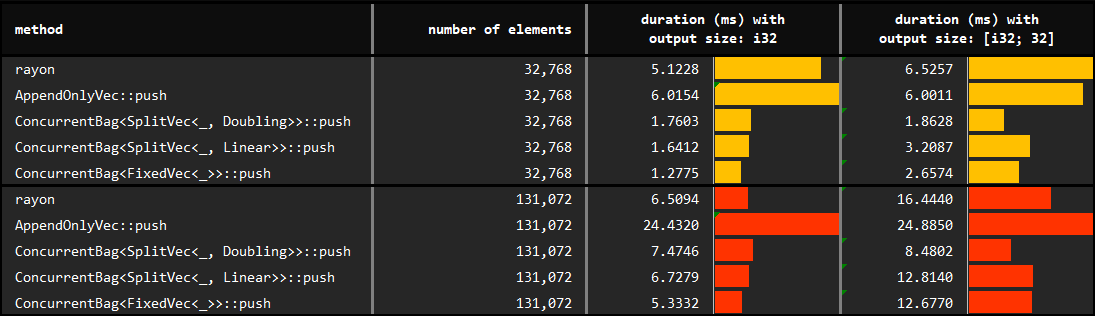
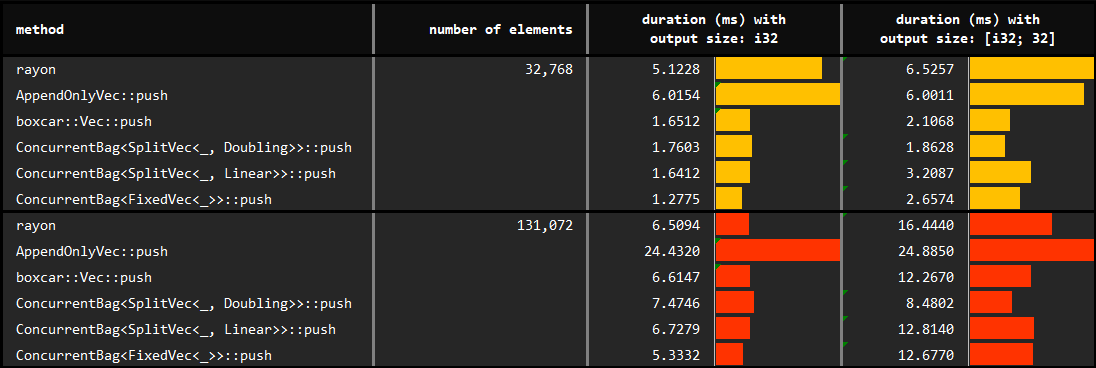
upgraded pinned-vec and pinned-concurrent-col versions
* Upgraded pinned-vec and pinned-concurrent-col versions.
* boxcar is added to benchmarks.
* Concurrent read & write tests added. Although the api for reading is still unsafe, the tests are not required to be excluded from miri tests. Now all unsafe tests also pass miri tests.

diff --git a/benches/collect_with_push.rs b/benches/collect_with_push.rs
@@ -88,6 +88,25 @@ fn with_append_only_vec<T: Send + Sync + Clone + Copy>(
     vec
 }
 
+fn with_boxcar<T: Send + Sync + Clone + Copy>(
+    num_threads: usize,
+    num_items_per_thread: usize,
+    compute: fn(usize, usize) -> T,
+    vec: boxcar::Vec<T>,
+) -> boxcar::Vec<T> {
+    std::thread::scope(|s| {
+        for _ in 0..num_threads {
+            s.spawn(|| {
+                for j in 0..num_items_per_thread {
+                    vec.push(std::hint::black_box(compute(j, j + 1)));
+                }
+            });
+        }
+    });
+
+    vec
+}
+
 fn bench_grow(c: &mut Criterion) {
     let thread_info = [(8, 4096), (8, 16384)];
 
@@ -101,6 +120,8 @@ fn bench_grow(c: &mut Criterion) {
 
         let max_len = num_threads * num_items_per_thread;
 
+        let compute = compute_data_i32;
+
         // RAYON
 
         group.bench_with_input(BenchmarkId::new("rayon", &treatment), &(), |b, _| {
@@ -108,7 +129,7 @@ fn bench_grow(c: &mut Criterion) {
                 black_box(with_rayon(
                     black_box(num_threads),
                     black_box(num_items_per_thread),
-                    compute_data_i32,
+                    compute,
                 ))
             })
         });
@@ -123,12 +144,25 @@ fn bench_grow(c: &mut Criterion) {
                     black_box(with_append_only_vec(
                         black_box(num_threads),
                         black_box(num_items_per_thread),
-                        compute_data_i32,
+                        compute,
                         AppendOnlyVec::new(),
                     ))
                 })
             },
         );
+
+        // BOXCAR
+
+        group.bench_with_input(BenchmarkId::new("boxcar", &treatment), &(), |b, _| {
+            b.iter(|| {
+                black_box(with_boxcar(
+                    black_box(num_threads),
+                    black_box(num_items_per_thread),
+                    compute,
+                    boxcar::Vec::new(),
+                ))
+            })
+        });
 
         // WITH-SCOPE
 
@@ -140,7 +174,7 @@ fn bench_grow(c: &mut Criterion) {
                     black_box(with_concurrent_bag(
                         black_box(num_threads),
                         black_box(num_items_per_thread),
-                        compute_data_i32,
+                        compute,
                         ConcurrentBag::with_doubling_growth(),
                     ))
                 })
@@ -157,7 +191,7 @@ fn bench_grow(c: &mut Criterion) {
                     black_box(with_concurrent_bag(
                         black_box(num_threads),
                         black_box(num_items_per_thread),
-                        compute_data_i32,
+                        compute,
                         ConcurrentBag::with_linear_growth(12, num_linear_fragments),
                     ))
                 })
@@ -172,7 +206,7 @@ fn bench_grow(c: &mut Criterion) {
                     black_box(with_concurrent_bag(
                         black_box(num_threads),
                         black_box(num_items_per_thread),
-                        compute_data_i32,
+                        compute,
                         ConcurrentBag::with_fixed_capacity(num_threads * num_items_per_thread),
                     ))
                 })

diff --git a/tests/pinned_concurrent_col.rs b/tests/pinned_concurrent_col.rs
@@ -64,74 +64,6 @@ fn exceeding_fixed_capacity_panics_concurrently<P: IntoConcurrentPinnedVec<usize
 }
 
 #[test_matrix([
-    FixedVec::new(100),
-    SplitVec::with_doubling_growth_and_fragments_capacity(16),
-    SplitVec::with_linear_growth_and_fragments_capacity(10, 16)
-], [
-    FixedVec::new(100),
-    SplitVec::with_doubling_growth_and_fragments_capacity(16),
-    SplitVec::with_linear_growth_and_fragments_capacity(10, 16)
-])]
-#[cfg(not(miri))] // not miri-safe due to concurrent unsafe-read
-fn concurrent_get_and_iter<P, Q>(pinned_i32: P, pinned_f32: Q)
-where
-    P: IntoConcurrentPinnedVec<i32> + Clone,
-    Q: IntoConcurrentPinnedVec<f32>,
-{
-    // record measurements in (assume) random intervals
-    let measurements: ConcurrentBag<_, _> = pinned_i32.clone().into();
-    let rf_measurements = &measurements;
-
-    // collect sum of measurements every 50 milliseconds
-    let sums: ConcurrentBag<_, _> = pinned_i32.into();
-    let rf_sums = &sums;
-
-    // collect average of measurements every 50 milliseconds
-    let averages: ConcurrentBag<_, _> = pinned_f32.into();
-    let rf_averages = &averages;
-
-    std::thread::scope(|s| {
-        s.spawn(move || {
-            for i in 0..100 {
-                std::thread::sleep(std::time::Duration::from_millis(i % 5));
-                rf_measurements.push(i as i32);
-            }
-        });
-
-        s.spawn(move || {
-            for _ in 0..10 {
-                let mut sum = 0;
-                for i in 0..rf_measurements.len() {
-                    sum += unsafe { rf_measurements.get(i) }.copied().unwrap_or(0);
-                }
-                rf_sums.push(sum);
-                std::thread::sleep(std::time::Duration::from_millis(50));
-            }
-        });
-
-        s.spawn(move || {
-            for _ in 0..10 {
-                // better to have count & add as an atomic reduction for correctness
-                // calling .len() and .iter().sum() separately might possibly give a false average
-                fn count_and_add(len_and_sum: (usize, i32), x: &i32) -> (usize, i32) {
-                    (len_and_sum.0 + 1, len_and_sum.1 + x)
-                }
-
-                let (len, sum) = unsafe { rf_measurements.iter() }.fold((0, 0), count_and_add);
-                let average = sum as f32 / len as f32;
-                rf_averages.push(average);
-
-                std::thread::sleep(std::time::Duration::from_millis(50));
-            }
-        });
-    });
-
-    assert_eq!(measurements.len(), 100);
-    assert_eq!(sums.len(), 10);
-    assert_eq!(averages.len(), 10);
-}
-
-#[test_matrix([
     FixedVec::new(10),
     SplitVec::with_doubling_growth_and_fragments_capacity(2),
     SplitVec::with_linear_growth_and_fragments_capacity(2, 3)

diff --git a/tests/concurrent_read_write.rs b/tests/concurrent_read_write.rs
@@ -1,0 +1,72 @@
+use orx_concurrent_bag::ConcurrentBag;
+use orx_fixed_vec::FixedVec;
+use orx_pinned_vec::IntoConcurrentPinnedVec;
+use orx_split_vec::SplitVec;
+use test_case::test_matrix;
+
+#[test_matrix([
+    FixedVec::new(100),
+    SplitVec::with_doubling_growth_and_fragments_capacity(16),
+    SplitVec::with_linear_growth_and_fragments_capacity(10, 16)
+], [
+    FixedVec::new(100),
+    SplitVec::with_doubling_growth_and_fragments_capacity(16),
+    SplitVec::with_linear_growth_and_fragments_capacity(10, 16)
+])]
+fn concurrent_get_and_iter<P, Q>(pinned_i32: P, pinned_f32: Q)
+where
+    P: IntoConcurrentPinnedVec<i32> + Clone,
+    Q: IntoConcurrentPinnedVec<f32>,
+{
+    // record measurements in (assume) random intervals
+    let measurements: ConcurrentBag<_, _> = pinned_i32.clone().into();
+    let rf_measurements = &measurements;
+
+    // collect sum of measurements every 50 milliseconds
+    let sums: ConcurrentBag<_, _> = pinned_i32.into();
+    let rf_sums = &sums;
+
+    // collect average of measurements every 50 milliseconds
+    let averages: ConcurrentBag<_, _> = pinned_f32.into();
+    let rf_averages = &averages;
+
+    std::thread::scope(|s| {
+        s.spawn(move || {
+            for i in 0..100 {
+                std::thread::sleep(std::time::Duration::from_millis(i % 5));
+                rf_measurements.push(i as i32);
+            }
+        });
+
+        s.spawn(move || {
+            for _ in 0..10 {
+                let mut sum = 0;
+                for i in 0..rf_measurements.len() {
+                    sum += unsafe { rf_measurements.get(i) }.copied().unwrap_or(0);
+                }
+                rf_sums.push(sum);
+                std::thread::sleep(std::time::Duration::from_millis(50));
+            }
+        });
+
+        s.spawn(move || {
+            for _ in 0..10 {
+                // better to have count & add as an atomic reduction for correctness
+                // calling .len() and .iter().sum() separately might possibly give a false average
+                fn count_and_add(len_and_sum: (usize, i32), x: &i32) -> (usize, i32) {
+                    (len_and_sum.0 + 1, len_and_sum.1 + x)
+                }
+
+                let (len, sum) = unsafe { rf_measurements.iter() }.fold((0, 0), count_and_add);
+                let average = sum as f32 / len as f32;
+                rf_averages.push(average);
+
+                std::thread::sleep(std::time::Duration::from_millis(50));
+            }
+        });
+    });
+
+    assert_eq!(measurements.len(), 100);
+    assert_eq!(sums.len(), 10);
+    assert_eq!(averages.len(), 10);
+}

diff --git a/benches/collect_with_extend.rs b/benches/collect_with_extend.rs
@@ -116,6 +116,25 @@ fn append_only_vec<T: Send + Sync + Clone + Copy>(
     vec
 }
 
+fn boxcar<T: Send + Sync + Clone + Copy>(
+    num_threads: usize,
+    num_items_per_thread: usize,
+    compute: fn(usize, usize) -> T,
+    vec: boxcar::Vec<T>,
+) -> boxcar::Vec<T> {
+    std::thread::scope(|s| {
+        for _ in 0..num_threads {
+            s.spawn(|| {
+                for j in 0..num_items_per_thread {
+                    vec.push(std::hint::black_box(compute(j, j + 1)));
+                }
+            });
+        }
+    });
+
+    vec
+}
+
 fn bench_grow(c: &mut Criterion) {
     let thread_info = [(8, 4096), (8, 16384)];
 
@@ -131,7 +150,7 @@ fn bench_grow(c: &mut Criterion) {
         let fragment_size = 2usize.pow(12);
         let num_linear_fragments = (max_len / fragment_size) + 1;
 
-        let compute = compute_data_i32;
+        let compute = compute_large_data;
 
         let mut expected = seq(num_threads, num_items_per_thread, compute);
         expected.sort();
@@ -147,6 +166,18 @@ fn bench_grow(c: &mut Criterion) {
                 num_items_per_thread,
                 compute,
                 AppendOnlyVec::new(),
+            )
+            .into_iter()
+            .collect::<Vec<_>>(),
+        );
+
+        validate(
+            &expected,
+            &mut boxcar(
+                num_threads,
+                num_items_per_thread,
+                compute,
+                boxcar::Vec::new(),
             )
             .into_iter()
             .collect::<Vec<_>>(),
@@ -193,7 +224,7 @@ fn bench_grow(c: &mut Criterion) {
 
         // rayon
 
-        group.bench_with_input(BenchmarkId::new("with_rayon", &treatment), &(), |b, _| {
+        group.bench_with_input(BenchmarkId::new("rayon", &treatment), &(), |b, _| {
             b.iter(|| {
                 black_box(rayon(
                     black_box(num_threads),
@@ -219,6 +250,19 @@ fn bench_grow(c: &mut Criterion) {
                 })
             },
         );
+
+        // BOXCAR
+
+        group.bench_with_input(BenchmarkId::new("boxcar", &treatment), &(), |b, _| {
+            b.iter(|| {
+                black_box(boxcar(
+                    black_box(num_threads),
+                    black_box(num_items_per_thread),
+                    compute,
+                    boxcar::Vec::new(),
+                ))
+            })
+        });
 
         // ConcurrentBag
 

diff --git a/src/lib.rs b/src/lib.rs
@@ -57,7 +57,7 @@
 //!
 //! *You may find the details of the benchmarks at [benches/collect_with_push.rs](https://github.com/orxfun/orx-concurrent-bag/blob/main/benches/collect_with_push.rs).*
 //!
-//! In the experiment, `rayon`s parallel iterator, `AppendOnlyVec`s and `ConcurrentBag`s `push` methods are used to collect results from multiple threads. Further, different underlying pinned vectors of the `ConcurrentBag` are evaluated.
+//! In the experiment, `rayon`s parallel iterator, and push methods of `AppendOnlyVec`, `boxcar::Vec` and `ConcurrentBag` are used to collect results from multiple threads. Further, different underlying pinned vectors of the `ConcurrentBag` are evaluated.
 //!
 //! ```rust ignore
 //! // reserve and push one position at a time

diff --git a/README.md b/README.md
@@ -57,7 +57,7 @@ The concurrent state is modeled simply by an atomic length. Combination of this 
 
 *You may find the details of the benchmarks at [benches/collect_with_push.rs](https://github.com/orxfun/orx-concurrent-bag/blob/main/benches/collect_with_push.rs).*
 
-In the experiment, `rayon`s parallel iterator, `AppendOnlyVec`s and `ConcurrentBag`s `push` methods are used to collect results from multiple threads. Further, different underlying pinned vectors of the `ConcurrentBag` are evaluated. 
+In the experiment, `rayon`s parallel iterator, and push methods of `AppendOnlyVec`, `boxcar::Vec` and `ConcurrentBag` are used to collect results from multiple threads. Further, different underlying pinned vectors of the `ConcurrentBag` are evaluated. 
 
 ```rust ignore
 // reserve and push one position at a time
